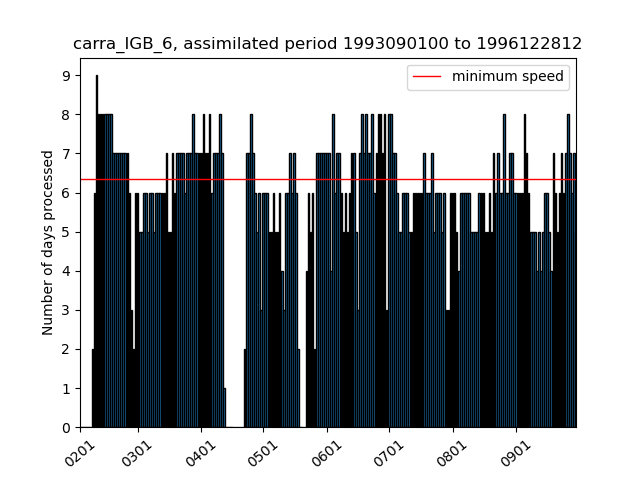
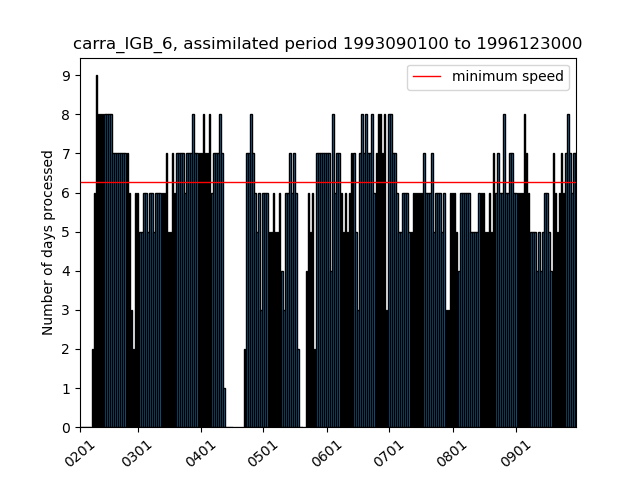
update repo

Changed region(s): [[0.125, 0.3438, 0.9062, 0.4062], [0.8438, 0.0625, 0.9062, 0.125]]

diff --git a/current_state_sims.html b/current_state_sims.html
@@ -2,18 +2,18 @@
 <h1>Estimated completion dates and simulation speeds</h1>
 <p>Stream (production) completion date based on 30d (7d) moving avg speed</p>
 <p><a href="https://docs.google.com/document/d/1zDKAxuEXYnWWYzT3SZnZwY5WW8nodUMeYRjAGz46coc/edit#">Details of the calculation of the completion dates</a></p>
-<p>Last update: 2021/10/01 00:40:26 UTC</p>
+<p>Last update: 2021/10/01 06:45:41 UTC</p>
 <p>Total progress CARRA: 99.33% <a href="https://hirlam.org/portal/CARRA/Progress/GanntChart_CARRA.html"> (see detailed progress meter in Gantt chart) </a></p>
 <p>Total progress PANARCTIC: 91.67% </p>
 <p><a href="https://hirlam.org/portal/CARRA/Progress/waiting_times.html"> Queue waiting times for all streams</a></p>
 <p><a href="https://hirlam.org/portal/CARRA/Progress/mars_status.html"> MARS archive throughput </a></p>
 <html><table border="1"><tr><th>expId</th><th>Current assimilated date</th><th>End date of stream </th><th> Completion date</th><th> Avg. throughput (7d) </th> <th>Avg. throughput (30d) </th> <th> Remarks</tr>
-<tr bgcolor="#FFFF00"><td>carra_NE_3</td><td>2021063000</td><td>2021063021</td><td>2021100100</td><td>(0.0) days/day</td><td>(3.57) days/day</td><td>Inactive the past week</tr>
+<tr bgcolor="#FFFF00"><td>carra_NE_3</td><td>2021063000</td><td>2021063021</td><td>2021100106</td><td>(0.0) days/day</td><td>(3.57) days/day</td><td>Inactive the past week</tr>
 <tr bgcolor="#33FF38"><td>carra_NE_4</td><td>1992090100</td><td>1992083021</td><td>Finished on 20210824</td><td>(0.0) days/day</td><td>(0.0) days/day</td><td>Stream finished</tr>
 <tr bgcolor="#33FF38"><td>carra_NE_5</td><td>1994090100</td><td>1994083021</td><td>Finished on 20210824</td><td>(0.0) days/day</td><td>(0.0) days/day</td><td>Stream finished</tr>
-<tr bgcolor="#33FF38"><td>carra_NE_6</td><td>1997070100</td><td>1997063021</td><td>2021093017</td><td>(0.0) days/day</td><td>(3.3) days/day</td><td>Stream finished</tr>
-<tr bgcolor="#FFFF00"><td>carra_IGB_3</td><td>2021063000</td><td>2021063021</td><td>2021100100</td><td>(0.0) days/day</td><td>(3.43) days/day</td><td>Inactive the past week</tr>
-<tr bgcolor="#33FF38"><td>carra_IGB_4</td><td>1992090100</td><td>1992083021</td><td>2021092912</td><td>(0.0) days/day</td><td>(1.33) days/day</td><td>Stream finished</tr>
-<tr bgcolor="#33FF38"><td>carra_IGB_5</td><td>1994090100</td><td>1994083021</td><td>2021093014</td><td>(1.29) days/day</td><td>(4.8) days/day</td><td>Stream finished</tr>
-<tr bgcolor="#FFA500"><td>carra_IGB_6</td><td>1996122812</td><td>1997063021</td><td>2021110109</td><td>(6.57) days/day</td><td>(5.87) days/day</td><td>Completion date after project end (20211031)</tr>
-<tr bgcolor="#FFFFFF"><td>carra_pan</td><td>2018081115</td><td>2018090100</td><td>2021100704</td><td>(3.71) days/day</td><td>(3.4) days/day</td><td></tr>
+<tr bgcolor="#33FF38"><td>carra_NE_6</td><td>1997070100</td><td>1997063021</td><td>2021093023</td><td>(0.0) days/day</td><td>(3.3) days/day</td><td>Stream finished</tr>
+<tr bgcolor="#FFFF00"><td>carra_IGB_3</td><td>2021063000</td><td>2021063021</td><td>2021100106</td><td>(0.0) days/day</td><td>(3.43) days/day</td><td>Inactive the past week</tr>
+<tr bgcolor="#33FF38"><td>carra_IGB_4</td><td>1992090100</td><td>1992083021</td><td>2021092918</td><td>(0.0) days/day</td><td>(1.33) days/day</td><td>Stream finished</tr>
+<tr bgcolor="#33FF38"><td>carra_IGB_5</td><td>1994090100</td><td>1994083021</td><td>2021093020</td><td>(1.29) days/day</td><td>(4.8) days/day</td><td>Stream finished</tr>
+<tr bgcolor="#FFFFFF"><td>carra_IGB_6</td><td>1996123000</td><td>1997063021</td><td>2021103122</td><td>(6.86) days/day</td><td>(5.93) days/day</td><td></tr>
+<tr bgcolor="#FFFFFF"><td>carra_pan</td><td>2018081209</td><td>2018090100</td><td>2021100702</td><td>(3.86) days/day</td><td>(3.43) days/day</td><td></tr>
